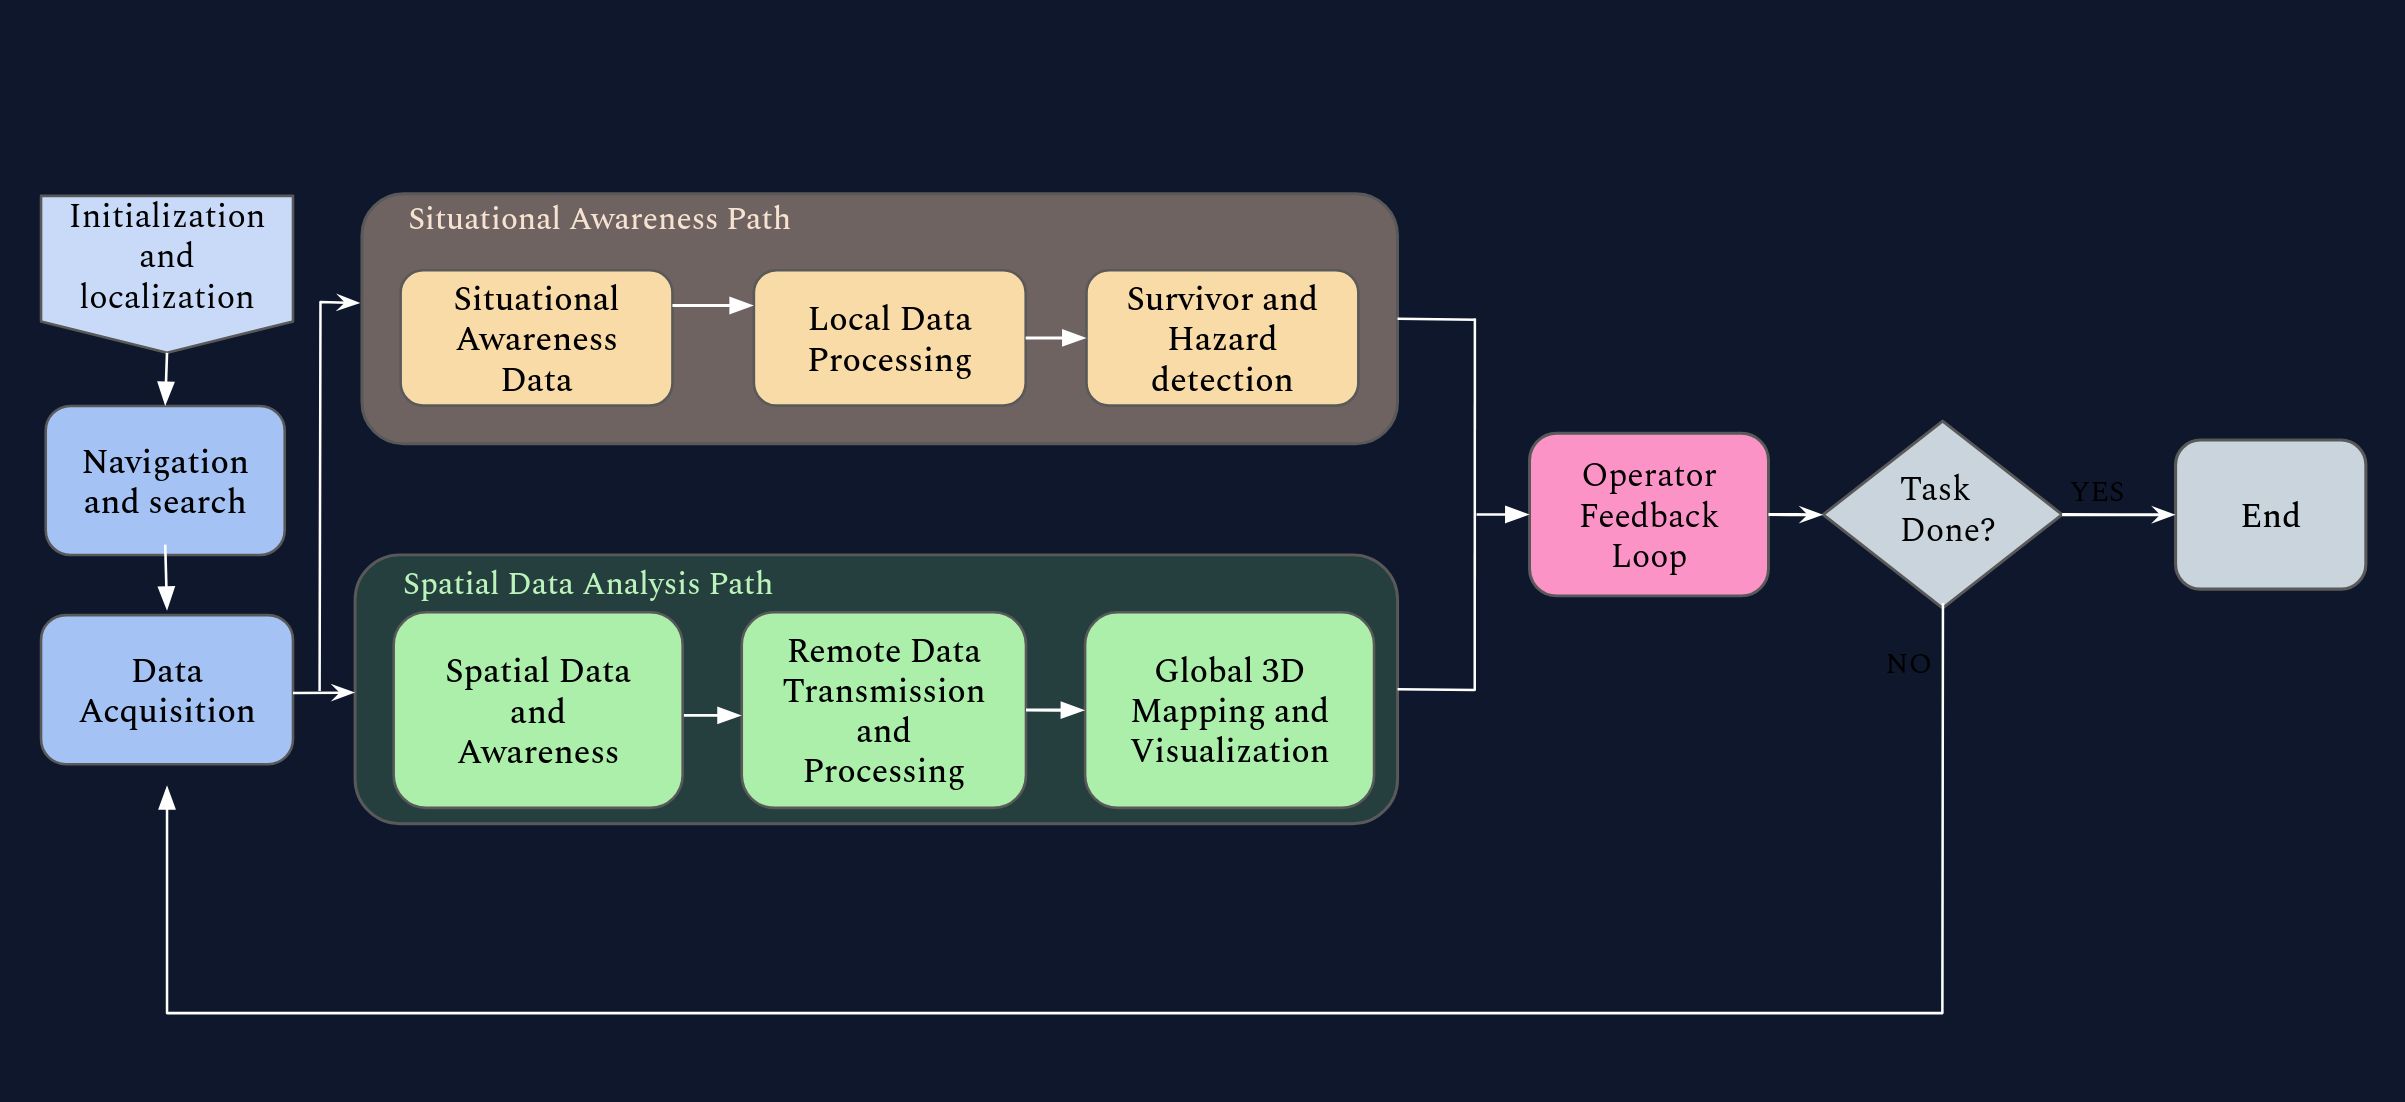
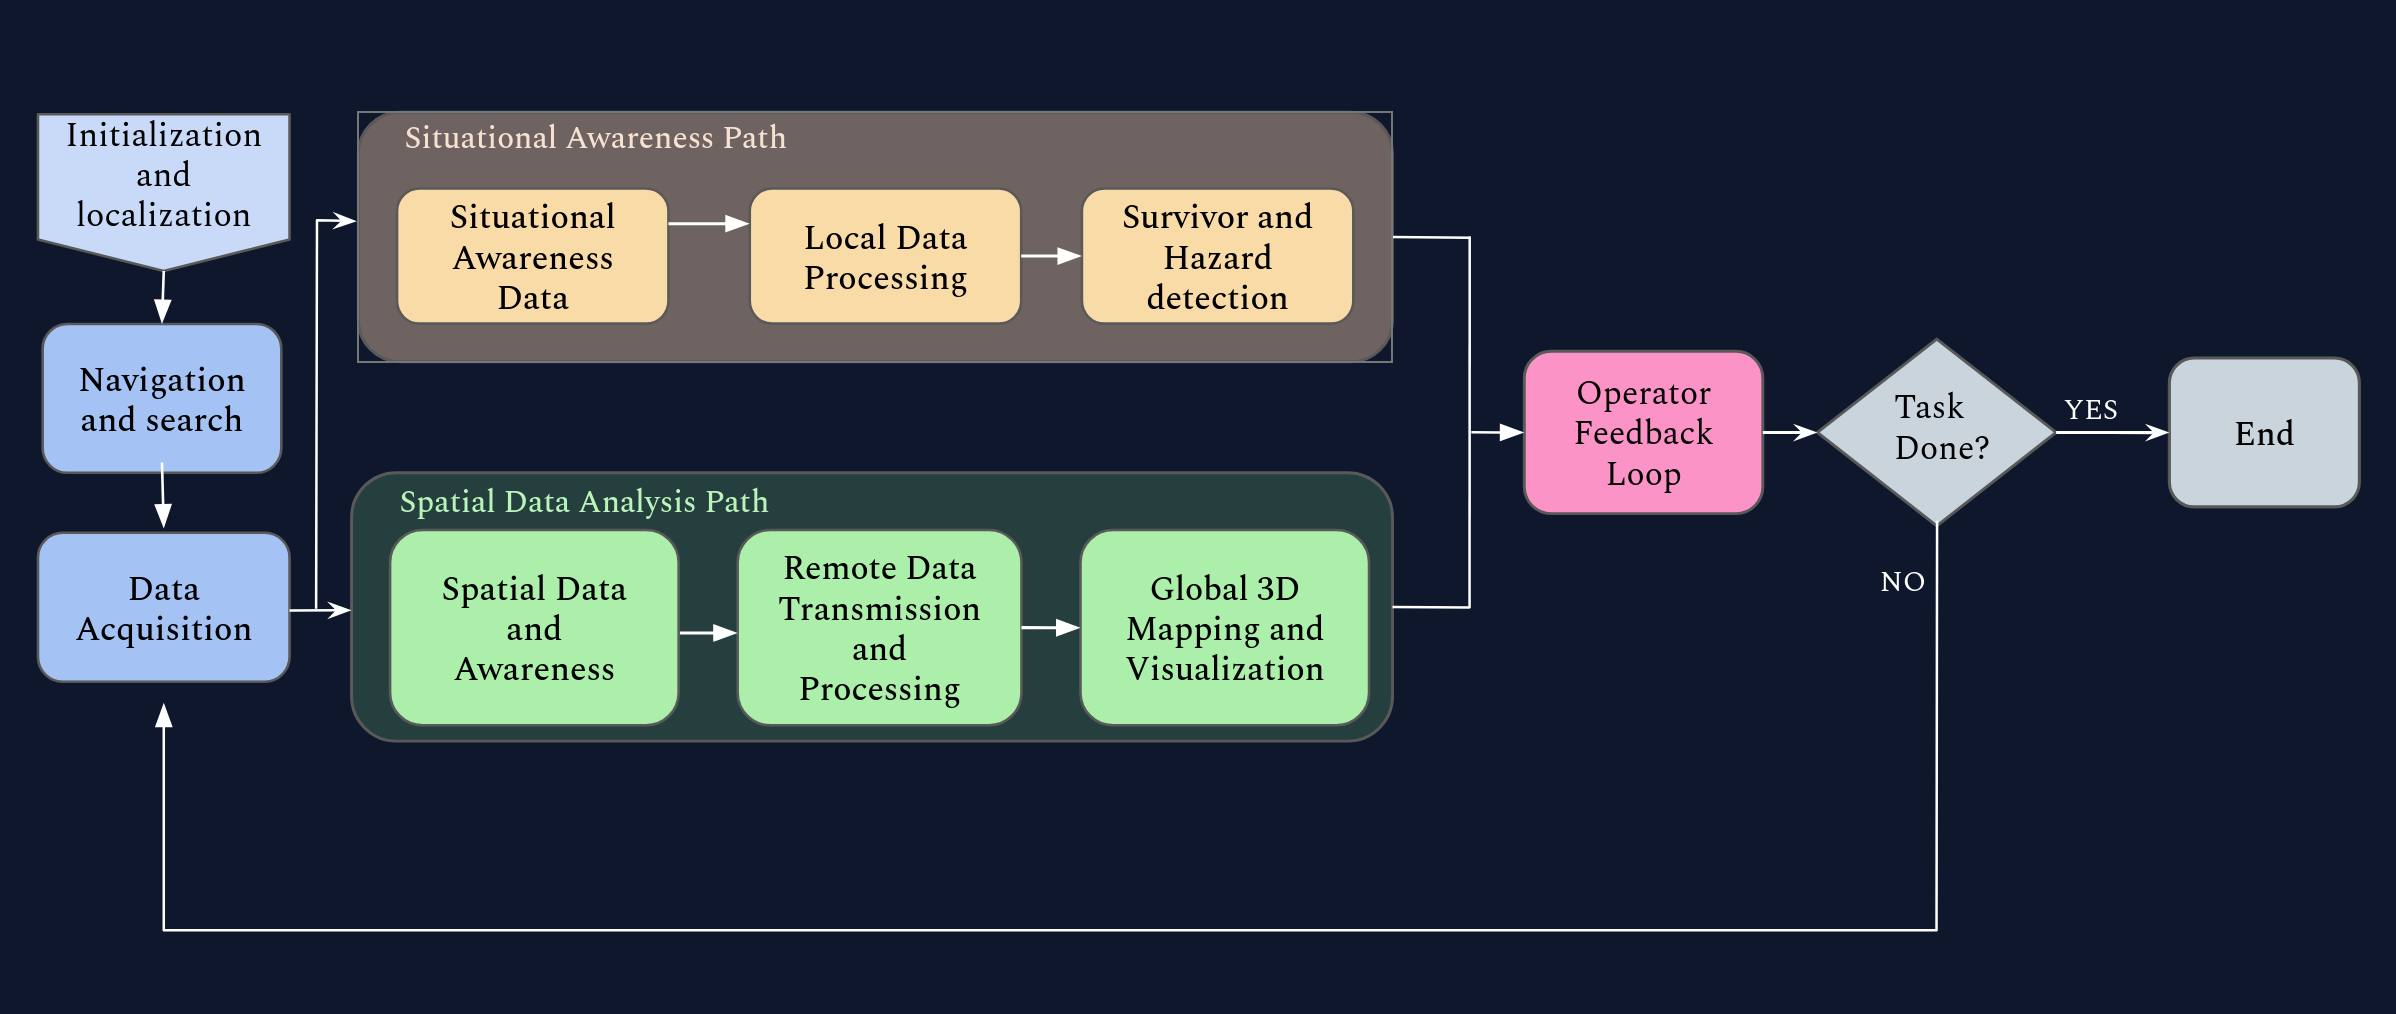
Update: v2 system overview diagram + blue hover glow on overview card

diff --git a/index.html b/index.html
@@ -624,6 +624,15 @@
         #approach-3 .proteus-img-card:hover, #proteus-3 .proteus-img-card:hover {
             box-shadow: 0 10px 35px rgba(139,92,246,0.2); border-color: rgba(139,92,246,0.55);
         }
+        /* System overview diagram — blue hover glow */
+        #overview-diagram {
+            transition: box-shadow 0.4s ease, border-color 0.4s ease;
+        }
+        #overview-diagram:hover {
+            transform: translateY(-3px);
+            box-shadow: 0 0 50px rgba(59,130,246,0.4), 0 0 0 1px rgba(59,130,246,0.35);
+            border-color: rgba(59,130,246,0.5);
+        }
         .proteus-img-card img {
             width: 100%; height: auto; display: block;
         }
@@ -1334,7 +1343,7 @@
 
         <div style="margin-bottom: 40px;">
             <h3 style="text-align: center; color: var(--accent-cyan); margin-bottom: 20px; font-size: 1.1rem;">📊 Overall System Flowchart</h3>
-            <div class="proteus-img-card" style="max-width: 900px; margin: 0 auto;">
+            <div class="proteus-img-card" id="overview-diagram" style="max-width: 900px; margin: 0 auto;">
                 <img loading="lazy" src="diagrams/system_overview.png" alt="System Overview Flowchart" class="diagram-dark" style="width: 100%; border-radius: 12px;">
                 <img loading="lazy" src="diagrams/light/system_overview.png" alt="System Overview Flowchart" class="diagram-light" style="width: 100%; border-radius: 12px;">
             </div>
